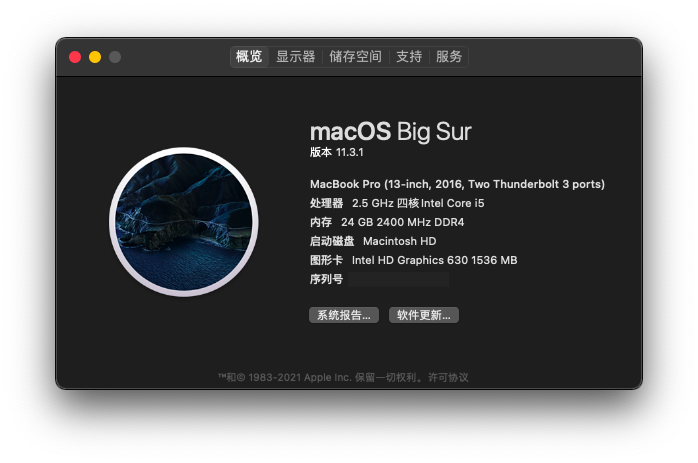
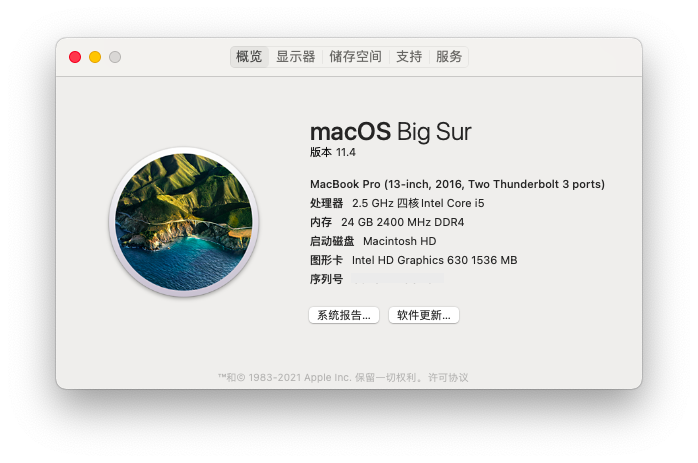
更新 README 及图片

diff --git a/README.MD b/README.MD
@@ -24,10 +24,6 @@
 <!-- PROJECT LOGO -->
 <br />
 <p align="center">
-  <h1>⚠重要警告⚠</h1>
-  <h2>由于 xhciportlimit 失效的问题,可能会出现 USB 鼠标\U盘等设备无法使用的问题.为此,最新版本已将该选项进行关闭,等待重新定制 USB,如果您的 USB 设备出现了某些问题,可以自行参考远景论坛中的相关操作进行解决</h2>
-</p>
-<p align="center">
   <a href="https://github.com/sve1r/Rules-For-Quantumult-X/">
     <img src="images/logo.png" alt="Logo" width="160" height="160">
   </a>
@@ -35,9 +31,9 @@
   <h3 align="center">OMEN-By-HP-15-ax225TX-Hackintosh-EFI</h3>
 
   本仓库内容适用于暗影精灵 2 Pro 的 基于 OpenCore 的 Hackintosh EFI
-   - 支持系统: macOS BigSur 11.3.1 (20E241)
-   - OpenCore 版本: OpenCore Release v0.6.9 commit <a href="https://github.com/acidanthera/OpenCorePkg/releases/tag/0.6.9">@65cc81b</a>
-   - 最后更新日期: 2021-05-07
+   - 支持系统: macOS BigSur 11.4 (20F71)
+   - OpenCore 版本: OpenCore Release v0.7.0 commit <a href="https://github.com/acidanthera/OpenCorePkg/releases/tag/0.7.0">@b498683</a>
+   - 最后更新日期: 2021-06-08
 
   **仓库内容归个人所有 转载请标明出处**
 </p>
